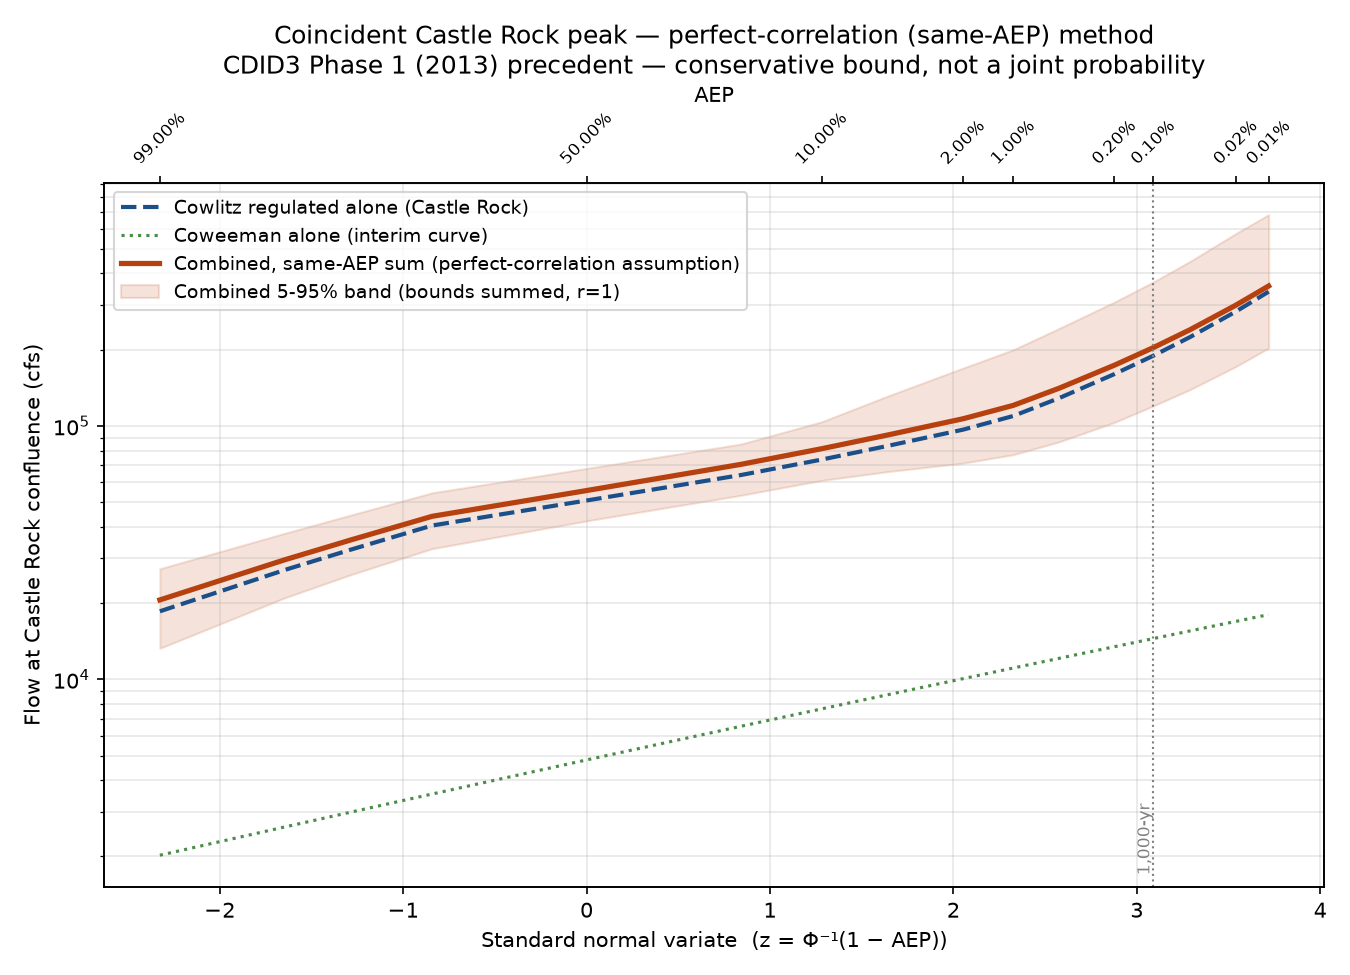
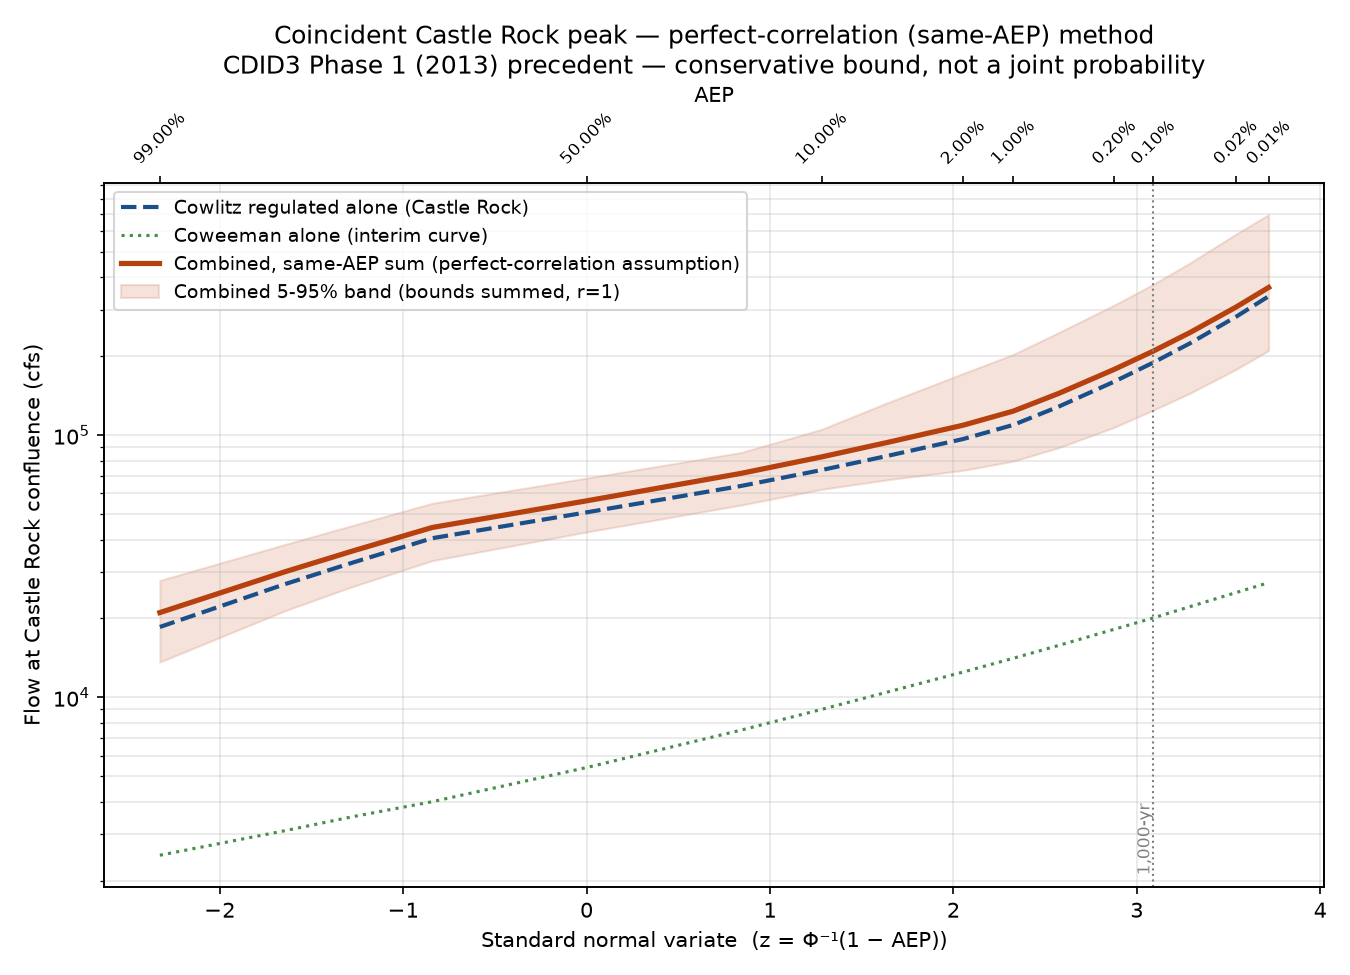
Adopt CDID3's actual Coweeman curve instead of a homemade approximation
The first version of #Coweeman_FlowFrequency.py built a method-of-
moments LP3 fit from raw gage data, when the CDID3 Phase 2a report's
own Table 5-2 -- a real HEC-SSP/Bulletin 17C/EMA curve, already
transcribed into CDID3_Coincident_Frequency_Notes.md -- was sitting
in the repo the whole time. That table has historical weighting for
the 1933 and 1996 peaks the from-scratch fit never had, and is
strictly more rigorous. Caught when asked directly why the report's
curve wasn't used.

CDID3's Table 5-2 is now the adopted curve (CDID3_TABLE_5_2, exact
transcription, one interpolated point at AEP=0.0002). The
method-of-moments fit is kept only as a labeled comparison line --
it sits ~20% below CDID3's curve at 1% AEP, which is visibly the
historical-weighting gap, not noise. The uncertainty band centers on
CDID3's real values with the comparison fit's bootstrap spread
applied as a ratio, since CDID3's own CI figures weren't in the
transcribed text.

Re-ran #Coincident_PerfectCorrelation.py and
#Coincident_CorrConditioned.py against the corrected curve -- 1,000-
yr combined estimates move from 203,923/199,327 cfs to 209,534/
201,701 cfs. Also cherry-picked CDID3_Coincident_Frequency_Notes.md
onto main (c85295e) -- it only existed on the feature branch, even
though these scripts reference it.

diff --git a/CAS_Reg_Unreg/src/#Coweeman_FlowFrequency.py b/CAS_Reg_Unreg/src/#Coweeman_FlowFrequency.py
@@ -9,25 +9,44 @@ WHY THIS EXISTS
     marginal frequency curve for two of the combination methods --
     #Coincident_PerfectCorrelation.py (same-AEP sum, the CDID3 Phase 1
     precedent) and #Coincident_CorrConditioned.py (correlation-conditioned
-    combination). This script builds that curve so those two have something
-    real to run against.
+    combination).
 
-WHAT THIS IS, AND WHAT IT IS NOT
-    The CDID3 Phase 2a report (2016) built its own Coweeman curve in
-    HEC-SSP: Bulletin 17C draft methods, multiple Grubbs-Beck low-outlier
-    screening, the Expected Moments Algorithm (EMA) to weight the 1933 and
-    1996 historic peaks and the 1985-2006 perception threshold against the
-    systematic record, and a regional skew from Cooper (2005). That is real
-    statistical machinery -- this repo's OWN unregulated Cowlitz curve goes
-    through the same kind of process. See
+CORRECTION -- THE FIRST VERSION OF THIS SCRIPT MISSED THE OBVIOUS ANSWER
+    The CDID3 Phase 2a report already contains a real, reviewed Coweeman
+    peak flow-frequency curve (its Table 5-2): HEC-SSP, Bulletin 17C draft
+    methods, multiple Grubbs-Beck low-outlier screening, the Expected
+    Moments Algorithm weighting the 1933 and 1996 historic peaks and the
+    1985-2006 perception threshold against the systematic record, and the
+    same regional skew from Cooper (2005) used below. That table was
+    already transcribed into CDID3_Coincident_Frequency_Notes.md before
+    this script was first written. The first version of this script built
+    a method-of-moments LP3 fit from raw gage data INSTEAD of using it --
+    strictly worse than the number already sitting in the repo, since it
+    has no historical weighting at all. That was a plain miss, not a
+    considered choice; caught when asked directly why the report's own
+    curve wasn't used.
+
+    CDID3_TABLE_5_2 below is that curve, transcribed with its AEP grid
+    converted to decimal. It supplies every point on this script's own
+    16-point AEP_GRID except 0.0002, which sits between CDID3's 0.0005 and
+    0.0001 points and is filled by log-flow/z interpolation (see
+    interpolate_cdid3()) -- not a refit, just reading a point off their own
+    published curve the same way the plot's twin-axis AEP labels do.
+
+    The method-of-moments fit below is KEPT, but demoted to a labeled
+    comparison line -- useful for seeing how much the historical weighting
+    CDID3 did (and this fit doesn't) moves the tail, not used as the
+    output the combination scripts actually run on.
+
+WHAT THE COMPARISON FIT IS, AND WHAT IT IS NOT
+    This repo's OWN unregulated Cowlitz curve goes through the same kind of
+    HEC-SSP/EMA process CDID3 used for Coweeman -- see
     CAS_Unreg_FF/src/Frequency_Curves_And_Table.py, which only PARSES an
-    HEC-SSP report; the actual fit happens in SSP, not in Python.
-
-    HEC-SSP is not available in this environment. Rather than hand-roll an
-    EMA / multiple-Grubbs-Beck implementation from memory -- exactly the
-    kind of thing that produces a plausible-looking curve with a subtle,
-    hard-to-catch error in it -- this script does something more modest and
-    easier to check by hand:
+    HEC-SSP report; the actual fit happens in SSP, not in Python. HEC-SSP is
+    not available in this environment, and hand-rolling an EMA / multiple-
+    Grubbs-Beck implementation from memory is exactly the kind of thing
+    that produces a plausible-looking curve with a subtle, hard-to-catch
+    error in it. So the comparison fit below does something more modest:
       - Log-Pearson III fit by ordinary method of moments, on the
         SYSTEMATIC record alone (USGS 1950-1984 annual peaks, plus
         Ecology-derived water-year maxima 2007-2020).
@@ -36,21 +55,25 @@ WHAT THIS IS, AND WHAT IT IS NOT
         weighting formula (a closed-form algebraic formula, not an
         iterative EMA solve).
       - The 1933 and 1996 historic peaks are PLOTTED at a historic-adjusted
-        plotting position for context, but are NOT folded into the moment
-        estimates -- no historical weighting, no EMA.
+        plotting position for context, but are NOT folded into this fit --
+        no historical weighting, no EMA. This is exactly the gap CDID3's
+        own curve fills, which is the whole reason to prefer their number.
       - Confidence limits by bootstrap (resample the systematic record with
         replacement, refit, repeat many times, take percentiles) rather
         than the WRC/Bulletin 17B noncentral-t confidence-limit tables.
 
-    This is an interim approximation, not a substitute for an actual
-    HEC-SSP run. It should be expected to disagree with a real EMA fit,
-    especially at the low-AEP tail, where the perception threshold and the
-    two historic peaks would carry real weight in a full Bulletin 17C
-    treatment and carry none here. It exists so the coincident-frequency
-    scripts have real numbers to develop and test against now. BEFORE this
-    curve goes in the memo: run the same record through HEC-SSP the way the
-    Cowlitz curve was, and turn this script into a report parser the way
-    Frequency_Curves_And_Table.py is for Cowlitz, rather than a fitter.
+UNCERTAINTY BAND ON THE ADOPTED (CDID3) CURVE
+    CDID3's report states 44 equivalent years of record for this curve and
+    plots 5%/95% confidence limits (its Figure 5-5), but the CI VALUES
+    themselves were not in the table text transcribed into
+    CDID3_Coincident_Frequency_Notes.md -- only the point estimates were.
+    Rather than invent a band, this script applies the comparison fit's own
+    bootstrap band WIDTH, as a ratio, around CDID3's real point values:
+    LowerConf = CDID3_value * (own_fit_lower / own_fit_value), and
+    likewise for UpperConf. The center is real; the spread is an
+    approximation of the spread, clearly labeled as such in the output
+    columns. If CDID3's actual 5%/95% figures are ever read off Figure 5-5
+    by hand, replace this step outright.
 
 LOCATION -- ONE OPEN ITEM
     This curve is left at the gage (USGS 14245000, "Coweeman River near
@@ -114,6 +137,34 @@ HISTORIC_PERIOD_START = 1933     # for the historic-adjusted plotting position
 REGIONAL_SKEW = 0.2
 REGIONAL_SKEW_MSE = 0.112        # Cooper (2005)
 
+# CDID3 Phase 2a report, Table 5-2, Coweeman column (unregulated, winter,
+# instantaneous peak, HEC-SSP Bulletin 17C/EMA, 44 equivalent years of
+# record). Transcribed via CAS_Reg_Unreg/docs/CDID3_Coincident_Frequency_
+# Notes.md, AEP converted from percent to decimal. This is the ADOPTED
+# curve -- see the CORRECTION section of the module docstring.
+CDID3_TABLE_5_2 = {
+    0.9999: 1700.0,
+    0.99: 2500.0,
+    0.95: 3100.0,
+    0.90: 3500.0,
+    0.80: 4000.0,
+    0.70: 4500.0,
+    0.60: 4900.0,
+    0.50: 5400.0,
+    0.40: 6000.0,
+    0.30: 6600.0,
+    0.20: 7500.0,
+    0.10: 9000.0,
+    0.05: 10500.0,
+    0.02: 12500.0,
+    0.01: 14100.0,
+    0.005: 15800.0,
+    0.002: 18200.0,
+    0.001: 20100.0,
+    0.0005: 22200.0,
+    0.0001: 27400.0,
+}
+
 # Matches the AEP grid already used in CAS_Unreg_FF/output/
 # CAS_Unreg_frequency_table.csv and CAS_Reg_Unreg/output/
 # regulated_frequency_inferred.csv, so the three curves interpolate onto a
@@ -126,10 +177,11 @@ BOOT_SEED = 20260821
 CONF_LOWER_PCT = 5
 CONF_UPPER_PCT = 95
 
+C_ADOPTED = "#b7410e"
 C_FIT = "#1a4f8a"
-C_BAND = "#8fbcdb"
+C_BAND = "#e8b9a8"
 C_SYS = "#1a4f8a"
-C_HIST = "#b7410e"
+C_HIST = "#4c8c4a"
 
 # ----------------------------------------------------------------------------
 
@@ -304,6 +356,29 @@ def historic_plotting_positions(historic_dict, period_start, period_end):
     return {yr: (rank + 1) / (h + 1.0) for rank, (yr, val) in enumerate(ordered)}
 
 
+def interpolate_cdid3(aep_grid):
+    """CDID3_TABLE_5_2 -> flow at every AEP in aep_grid.
+
+    Every point in AEP_GRID except 0.0002 is an exact key in
+    CDID3_TABLE_5_2; that one is filled by linear interpolation in
+    log10(flow)-vs-z space between CDID3's own bracketing points
+    (0.0005 and 0.0001), the same space frequency curves are normally
+    read in, not a refit of anything.
+    """
+    table_aep = np.array(sorted(CDID3_TABLE_5_2, reverse=True))
+    table_lf = np.log10(np.array([CDID3_TABLE_5_2[a] for a in table_aep]))
+    table_z = stats.norm.ppf(1 - table_aep)
+    order = np.argsort(table_z)
+    out = []
+    for aep in aep_grid:
+        if aep in CDID3_TABLE_5_2:
+            out.append(CDID3_TABLE_5_2[aep])
+        else:
+            z = stats.norm.ppf(1 - aep)
+            out.append(10 ** np.interp(z, table_z[order], table_lf[order]))
+    return np.array(out)
+
+
 def main():
     os.makedirs(OUT_DIR, exist_ok=True)
 
@@ -314,24 +389,39 @@ def main():
 
     mean, std, station_skew = fit_lp3(values)
     wskew = weighted_skew(station_skew, n)
-    print("Station skew=%.3f  regional-blended skew=%.3f" % (station_skew, wskew))
+    print("Comparison fit -- station skew=%.3f  regional-blended skew=%.3f"
+          % (station_skew, wskew))
 
-    best = lp3_quantiles(mean, std, wskew, AEP_GRID)
-    lower, upper = bootstrap_band(values, AEP_GRID)
+    own_fit = lp3_quantiles(mean, std, wskew, AEP_GRID)
+    own_lower, own_upper = bootstrap_band(values, AEP_GRID)
+
+    adopted = interpolate_cdid3(AEP_GRID)
+    # Center on CDID3's real curve; spread from the comparison fit's own
+    # bootstrap band, carried over as a ratio (see the module docstring's
+    # UNCERTAINTY BAND section for why).
+    lower = adopted * (own_lower / own_fit)
+    upper = adopted * (own_upper / own_fit)
 
     out = pd.DataFrame({
         "AEP": AEP_GRID,
-        "Value": best,
+        "Value": adopted,
         "LowerConf": lower,
         "UpperConf": upper,
+        "own_fit_value": own_fit,
+        "own_fit_lower": own_lower,
+        "own_fit_upper": own_upper,
     })
     out["N_systematic"] = n
     out["StationSkew"] = station_skew
     out["WeightedSkew"] = wskew
-    out["Method"] = "LP3_MoM_bootstrap_INTERIM_not_SSP"
+    out["Method"] = "CDID3_Table5-2_adopted__own_LP3_MoM_bootstrap_for_band_shape_only"
     out.to_csv(OUT_CSV, index=False)
     print("Wrote", OUT_CSV)
-    print(out[["AEP", "Value", "LowerConf", "UpperConf"]].to_string(index=False))
+    print(out[["AEP", "Value", "LowerConf", "UpperConf", "own_fit_value"]].to_string(index=False))
+    diff_1pct = 100 * (own_fit[AEP_GRID.index(0.01)] / adopted[AEP_GRID.index(0.01)] - 1)
+    print("\nAt 1%% AEP: CDID3 adopted=%.0f cfs vs. own comparison fit=%.0f cfs (%+.1f%%) --"
+          " the gap is the historical weighting CDID3 has and the comparison fit doesn't."
+          % (adopted[AEP_GRID.index(0.01)], own_fit[AEP_GRID.index(0.01)], diff_1pct))
 
     # -- plot --
     aep_pp = plotting_positions(values)
@@ -339,9 +429,13 @@ def main():
 
     fig, ax = plt.subplots(figsize=(9, 6.5))
     z_grid = stats.norm.ppf(1 - np.array(AEP_GRID))
-    ax.plot(z_grid, best, color=C_FIT, lw=2, label="LP3 fit (method of moments, interim)")
+    ax.plot(z_grid, adopted, color=C_ADOPTED, lw=2.5,
+            label="ADOPTED: CDID3 Table 5-2 (HEC-SSP/EMA, real curve)")
     ax.fill_between(z_grid, lower, upper, color=C_BAND, alpha=0.35,
-                     label="%d-%d%% bootstrap band" % (CONF_LOWER_PCT, CONF_UPPER_PCT))
+                     label="%d-%d%% band (CDID3 center, comparison-fit spread)"
+                     % (CONF_LOWER_PCT, CONF_UPPER_PCT))
+    ax.plot(z_grid, own_fit, color=C_FIT, lw=1.5, ls="--",
+            label="Comparison: own LP3 fit (method of moments, no historical weighting)")
     ax.scatter(stats.norm.ppf(1 - aep_pp), values, color=C_SYS, s=28, zorder=5,
                label="Systematic peaks (n=%d)" % n)
     for yr, p in hist_pp.items():
@@ -354,8 +448,8 @@ def main():
     ax.set_yscale("log")
     ax.set_xlabel("Standard normal variate  (z = Φ⁻¹(1 − AEP))")
     ax.set_ylabel("Coweeman River peak flow (cfs)")
-    ax.set_title("Coweeman River near mouth — interim unregulated peak flow-frequency\n"
-                  "(method-of-moments LP3 — NOT an HEC-SSP/EMA result, see script docstring)")
+    ax.set_title("Coweeman River near mouth — unregulated peak flow-frequency\n"
+                  "Adopted curve is CDID3's own Table 5-2; own fit shown only for comparison")
     ax.grid(True, which="both", alpha=0.3)
     ax.legend(loc="upper left", fontsize=9)
 
